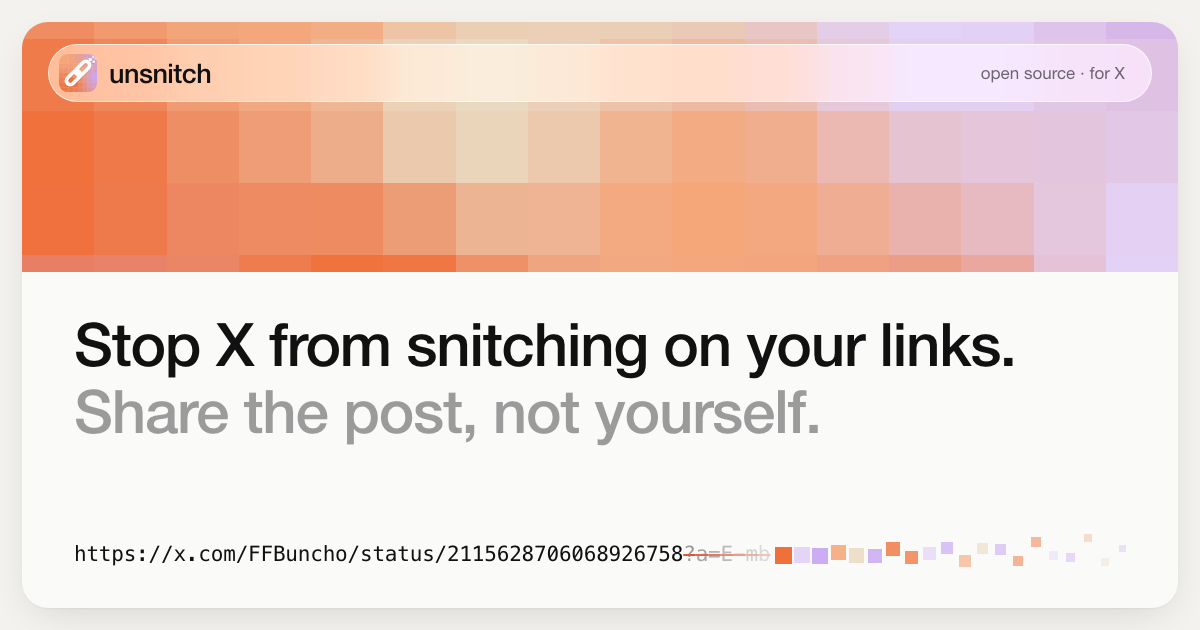
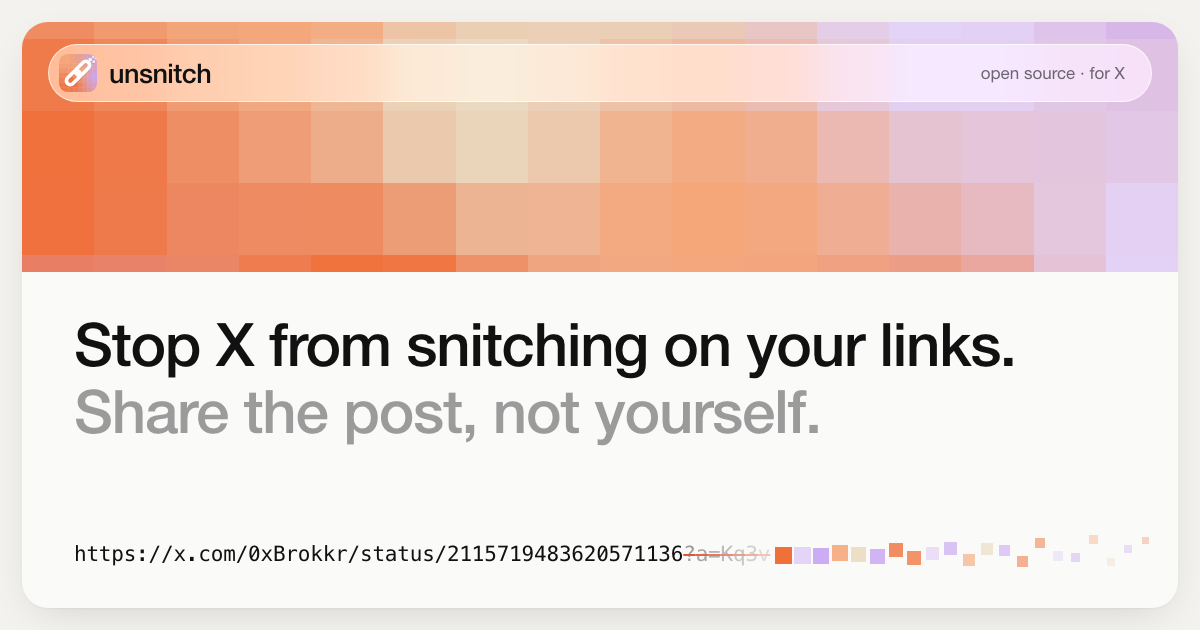
Use the maintainer's profile in example links

diff --git a/site/index.html b/site/index.html
@@ -60,8 +60,8 @@
       <div class="card-body hero-body">
         <h1>Stop X from snitching on your&nbsp;links. <span class="grey">Share the post, not&nbsp;yourself.</span></h1>
 
-        <div class="demo" role="img" aria-label="Animation: the tracking part ?a=E-mbQ0quyOZVCVU3zFg&amp;s=19 is struck through and dissolves into pixels, leaving a clean link.">
-          <p class="demo-url" aria-hidden="true"><span class="base">https://x.com/FFBuncho/status/2115628706068926758</span><span class="track"><b>?</b><b>a</b><b>=</b><b>E</b><b>-</b><b>m</b><b>b</b><b>Q</b><b>0</b><b>q</b><b>u</b><b>y</b><b>O</b><b>Z</b><b>V</b><b>C</b><b>V</b><b>U</b><b>3</b><b>z</b><b>F</b><b>g</b><b>&amp;</b><b>s</b><b>=</b><b>1</b><b>9</b></span></p>
+        <div class="demo" role="img" aria-label="Animation: the tracking part ?a=Kq3vX9mPzR2tLw8nYb4c&amp;s=19 is struck through and dissolves into pixels, leaving a clean link.">
+          <p class="demo-url" aria-hidden="true"><span class="base">https://x.com/0xBrokkr/status/2115719483620571136</span><span class="track"><b>?</b><b>a</b><b>=</b><b>K</b><b>q</b><b>3</b><b>v</b><b>X</b><b>9</b><b>m</b><b>P</b><b>z</b><b>R</b><b>2</b><b>t</b><b>L</b><b>w</b><b>8</b><b>n</b><b>Y</b><b>b</b><b>4</b><b>c</b><b>&amp;</b><b>s</b><b>=</b><b>1</b><b>9</b></span></p>
           <p class="demo-status" aria-hidden="true"><span class="st-dirty">Tracking: who shared it, and from which app</span><span class="st-clean">Clean. Nothing left to snitch.</span></p>
         </div>
 
@@ -81,7 +81,7 @@
         <p class="eyebrow">How it works</p>
         <h2>What X adds to your links. <span class="grey">The link you copy isn&rsquo;t just the post.</span></h2>
         <div class="anatomy" aria-hidden="true">
-          <span class="a-base">x.com/someone/status/1234567890</span><span class="a-q">?</span><span class="a-p">a=E-mbQ0quyOZVCVU3zFg</span><span class="a-q">&amp;</span><span class="a-p">s=19</span>
+          <span class="a-base">x.com/someone/status/1234567890</span><span class="a-q">?</span><span class="a-p">a=Kq3vX9mPzR2tLw8nYb4c</span><span class="a-q">&amp;</span><span class="a-p">s=19</span>
         </div>
         <div class="grid grid-3">
           <article class="tile">
@@ -112,7 +112,7 @@
         <p class="small sub">Runs entirely in your browser. Nothing is sent anywhere; this page makes no network requests.</p>
         <div class="cleaner">
           <label for="in" class="label">Link or text with X links</label>
-          <textarea id="in" rows="3" spellcheck="false" autocomplete="off" placeholder="https://x.com/FFBuncho/status/2115628706068926758?a=E-mbQ0quyOZVCVU3zFg&amp;s=19"></textarea>
+          <textarea id="in" rows="3" spellcheck="false" autocomplete="off" placeholder="https://x.com/0xBrokkr/status/2115719483620571136?a=Kq3vX9mPzR2tLw8nYb4c&amp;s=19"></textarea>
           <div class="cleaner-actions">
             <button type="button" class="btn btn-ghost btn-sm" id="paste">Paste from clipboard</button>
             <button type="button" class="btn btn-ghost btn-sm" id="example">Try an example</button>

diff --git a/test/clean.test.js b/test/clean.test.js
@@ -5,8 +5,8 @@ const { cleanUrl, cleanText, isXHost } = require('../extension/core/clean.js');
 
 test('removes s / t / a share-tracking params', () => {
   assert.equal(
-    cleanUrl('https://x.com/FFBuncho/status/2115628706068926758?a=E-mbQ0quyOZVCVU3zFg&s=19'),
-    'https://x.com/FFBuncho/status/2115628706068926758'
+    cleanUrl('https://x.com/0xBrokkr/status/2115719483620571136?a=Kq3vX9mPzR2tLw8nYb4c&s=19'),
+    'https://x.com/0xBrokkr/status/2115719483620571136'
   );
   assert.equal(cleanUrl('https://x.com/a/status/1?s=20'), 'https://x.com/a/status/1');
   assert.equal(cleanUrl('https://x.com/a/status/1?s=46&t=AbC-123_xyz'), 'https://x.com/a/status/1');
@@ -85,7 +85,7 @@ test('garbage input returned unchanged', () => {
 
 test('already-clean URLs are idempotent', () => {
   const urls = [
-    'https://x.com/FFBuncho/status/2115628706068926758',
+    'https://x.com/0xBrokkr/status/2115719483620571136',
     'https://x.com/search?q=hi&f=live',
     'https://x.com/a/status/1#m',
   ];

diff --git a/assets/brand/render/marquee.html b/assets/brand/render/marquee.html
@@ -14,7 +14,7 @@ h1{font-size:56px;margin-top:64px}.sub{font-size:56px;font-weight:500;line-heigh
     <div class="brand"><img src="../logo.svg">unsnitch</div>
     <h1>Stop X from snitching on your links.</h1>
     <p class="sub">Share the post, not yourself.</p>
-    <div class="url" data-clean="https://x.com/FFBuncho/status/2115628706068926758" data-dirty="?a=E-mbQ0quyOZVCVU3zFg&s=19" data-px="11" data-keep="6"></div>
+    <div class="url" data-clean="https://x.com/0xBrokkr/status/2115719483620571136" data-dirty="?a=Kq3vX9mPzR2tLw8nYb4c&s=19" data-px="11" data-keep="6"></div>
   </div>
   <div class="mosaic"><div class="pill"><span>Open source</span><span>No tracking</span><span>No network</span></div></div>
 </div>

diff --git a/assets/brand/render/promo.html b/assets/brand/render/promo.html
@@ -12,7 +12,7 @@ h1{font-size:28px}.sub{font-size:28px;font-weight:500;line-height:1.05;letter-sp
   <div class="mosaic"><div class="pill"><div class="brand"><img src="../logo.svg">unsnitch</div></div></div>
   <div class="body">
     <h1>Stop X from snitching<br>on your links.</h1>
-    <div class="url" data-clean="x.com/…/status/2115628706068926758" data-dirty="?a=E-mbQ0quyOZVCVU3zFg&s=19" data-px="8" data-keep="5"></div>
+    <div class="url" data-clean="x.com/…/status/2115719483620571136" data-dirty="?a=Kq3vX9mPzR2tLw8nYb4c&s=19" data-px="8" data-keep="5"></div>
   </div>
 </div>
 <script src="dust.js"></script>

diff --git a/assets/brand/render/og.html b/assets/brand/render/og.html
@@ -15,7 +15,7 @@ h1{font-size:60px}.sub{font-size:60px;font-weight:500;line-height:1.05;letter-sp
   <div class="body">
     <h1>Stop X from snitching on your links.</h1>
     <p class="sub">Share the post, not yourself.</p>
-    <div class="url" data-clean="https://x.com/FFBuncho/status/2115628706068926758" data-dirty="?a=E-mbQ0quyOZVCVU3zFg&s=19" data-px="17" data-keep="7"></div>
+    <div class="url" data-clean="https://x.com/0xBrokkr/status/2115719483620571136" data-dirty="?a=Kq3vX9mPzR2tLw8nYb4c&s=19" data-px="17" data-keep="7"></div>
   </div>
 </div>
 <script src="dust.js"></script>

diff --git a/site/app.js b/site/app.js
@@ -3,7 +3,7 @@
   'use strict';
   var core = window.UnsnitchCore;
   var $ = function (id) { return document.getElementById(id); };
-  var EXAMPLE = 'https://x.com/FFBuncho/status/2115628706068926758?a=E-mbQ0quyOZVCVU3zFg&s=19';
+  var EXAMPLE = 'https://x.com/0xBrokkr/status/2115719483620571136?a=Kq3vX9mPzR2tLw8nYb4c&s=19';
   var URL_RE = /https?:\/\/[^\s<>"'`]+/gi;
 
   // Names of params cleanUrl dropped from every X link in `text`.

diff --git a/README.md b/README.md
@@ -27,8 +27,8 @@ A tiny, open-source browser extension that strips the share-tracking codes X (Tw
 When you hit **Copy link** or **Share** on a post, X adds tracking parameters to the URL:
 
 ```diff
-- https://x.com/FFBuncho/status/2115628706068926758?a=E-mbQ0quyOZVCVU3zFg&s=19
-+ https://x.com/FFBuncho/status/2115628706068926758
+- https://x.com/0xBrokkr/status/2115719483620571136?a=Kq3vX9mPzR2tLw8nYb4c&s=19
++ https://x.com/0xBrokkr/status/2115719483620571136
 ```
 
 Both links open the same post. The first one also carries a token tied to the share and a code for the app it came from. Anyone can see it, and X can use it to connect the people who click with the person who shared. Unsnitch removes those parameters before the link leaves your clipboard.
@@ -39,7 +39,7 @@ Both links open the same post. The first one also carries a token tied to the sh
 | --- | --- | --- |
 | `s` | `?s=19`, `?s=20`, `?s=46` | A code for the app or platform you shared from. Common reports say 19 is Android, 20 is iPhone and 46 is desktop web, but people report other numbers too and X doesn't document it. |
 | `t` | `&t=Xy3k…` | A share token, widely reported to be tied to the account that shared the link. |
-| `a` | `?a=E-mbQ0quyOZVCVU3zFg` | A newer share token, also reported to be tied to the sharer. |
+| `a` | `?a=Kq3vX9mPzR2tLw8nYb4c` | A newer share token, also reported to be tied to the sharer. |
 | `ref_src`, `ref_url`, `cn`, `refsrc`, `utm_*` | `?ref_src=twsrc%5Etfw` | Referral and campaign tags from embeds and emails. |
 
 Unsnitch removes **every** query parameter on X links **except** `q`, `f`, `pf` and `lf`, which search URLs need to keep working. The host, the path and any `#hash` stay exactly as they were. **Links to other sites are never modified.**

diff --git a/docs/mobile.md b/docs/mobile.md
@@ -51,10 +51,10 @@ If your phone doesn't list it in the share sheet, open the Unsnitch web app, pas
 For any X link, delete everything from the `?` onward:
 
 ```
-https://x.com/FFBuncho/status/2115628706068926758?a=E-mbQ0quyOZVCVU3zFg&s=19
+https://x.com/0xBrokkr/status/2115719483620571136?a=Kq3vX9mPzR2tLw8nYb4c&s=19
                                                   ^ delete from here to the end
 ```
 
-Result: `https://x.com/FFBuncho/status/2115628706068926758`
+Result: `https://x.com/0xBrokkr/status/2115719483620571136`
 
 Exception: search links (`/search?q=...&f=live`) need `q`, `f`, `pf` and `lf` to work; keep those and drop the rest. If the link ends with a `#fragment`, keep that too.

diff --git a/docs/how-it-works.md b/docs/how-it-works.md
@@ -18,8 +18,8 @@ The tokens are opaque to us; X knows their meaning. The practical effect is that
 Example:
 
 ```
-https://x.com/FFBuncho/status/2115628706068926758?a=E-mbQ0quyOZVCVU3zFg&s=19
-→ https://x.com/FFBuncho/status/2115628706068926758
+https://x.com/0xBrokkr/status/2115719483620571136?a=Kq3vX9mPzR2tLw8nYb4c&s=19
+→ https://x.com/0xBrokkr/status/2115719483620571136
 ```
 
 ## The cleaning rule
